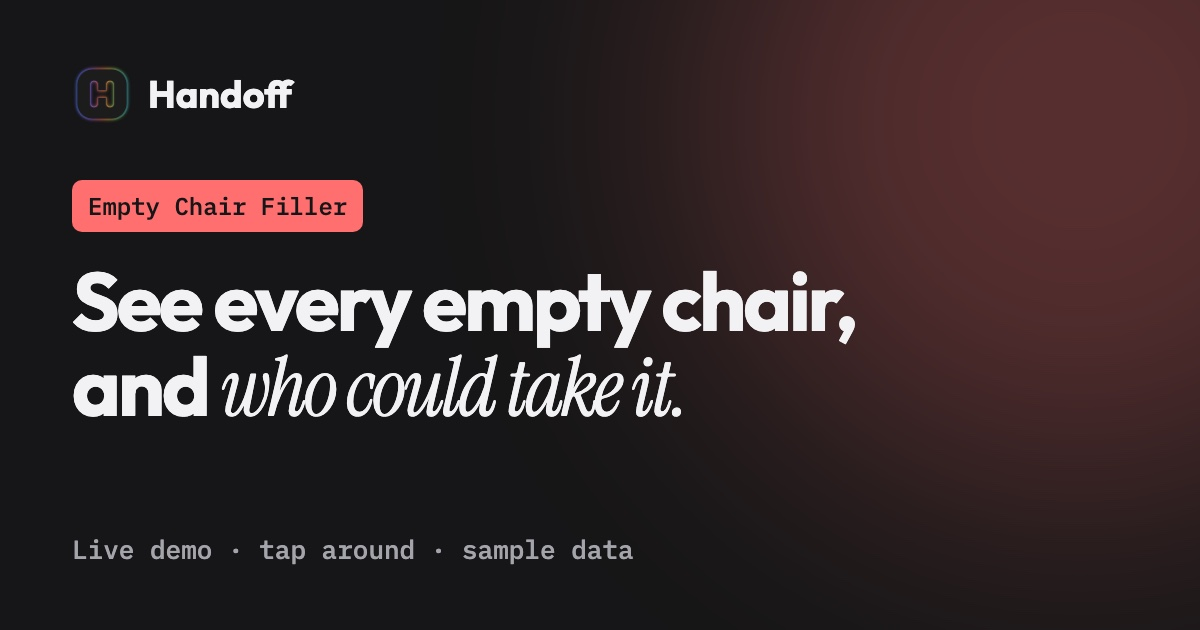
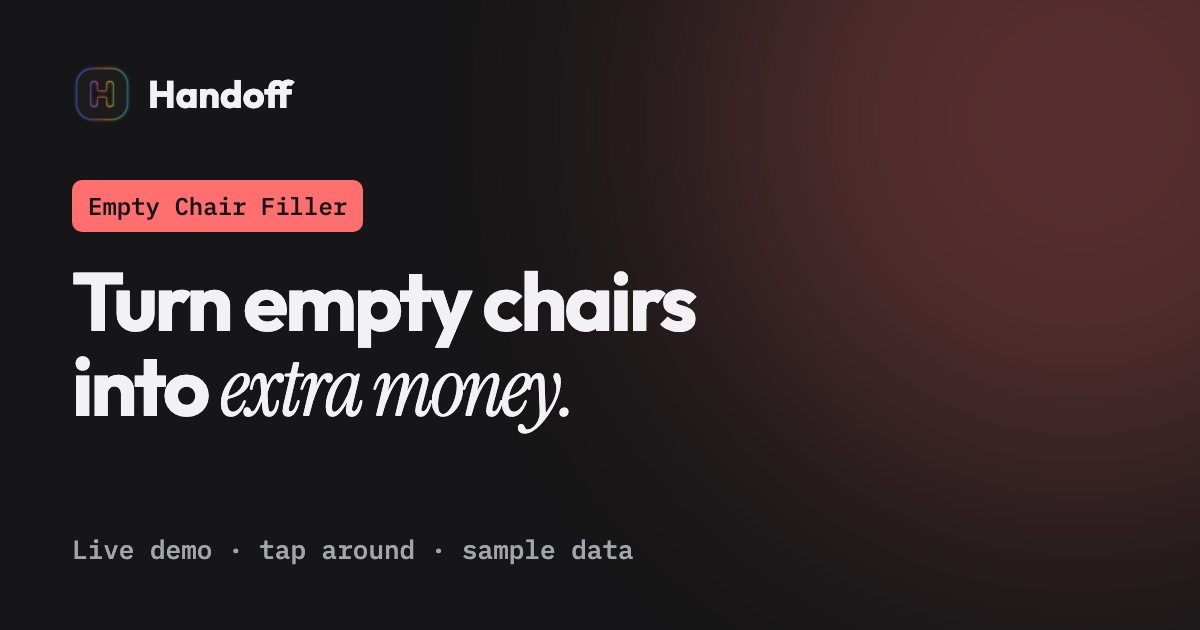
Demos page: say who each demo is for above its card, lead Empty Chair with the money

Changed region(s): [[0.0617, 0.4222, 0.7092, 0.6937]]

diff --git a/demos/index.html b/demos/index.html
@@ -45,12 +45,13 @@ p { margin: 0; max-width: 60ch; }
 .muted { color: var(--muted); }
 header { padding-block: 56px 32px; display: grid; gap: 16px; }
 .grid { display: grid; grid-template-columns: repeat(2, minmax(0, 1fr)); gap: 18px; padding-bottom: 48px; }
-.demo { background: var(--card); border: 1px solid var(--line); border-radius: 22px; overflow: hidden; display: flex; flex-direction: column; text-decoration: none; color: inherit; min-width: 0; transition: transform .2s, border-color .2s; }
+.demo { background: var(--card); border: 1px solid var(--line); border-radius: 22px; overflow: hidden; display: flex; flex-direction: column; flex: 1; text-decoration: none; color: inherit; min-width: 0; transition: transform .2s, border-color .2s; }
 .demo:hover { transform: translateY(-3px); border-color: var(--blue); }
 .demo:focus-visible { outline: 2px solid var(--fg); outline-offset: 3px; }
 .demo img { display: block; width: 100%; aspect-ratio: 1200 / 630; object-fit: cover; }
 .demo div { padding: 22px 24px 24px; display: flex; flex-direction: column; gap: 8px; flex: 1; }
-.demo .for { font: 500 11px/1.3 var(--mono); letter-spacing: .1em; text-transform: uppercase; color: var(--amber); }
+.item { display: flex; flex-direction: column; gap: 12px; min-width: 0; }
+.for { margin: 0; font: 700 clamp(22px, 2.6vw, 28px)/1.15 var(--display); letter-spacing: -.02em; color: var(--amber); }
 .demo p { font-size: 15.5px; color: var(--muted); }
 .demo .go { margin-top: auto; padding-top: 10px; font-weight: 600; font-size: 15px; color: var(--blue); }
 .end { border-top: 1px solid var(--line); padding-block: 40px 64px; display: flex; gap: 20px; align-items: center; justify-content: space-between; flex-wrap: wrap; }
@@ -71,10 +72,10 @@ header { padding-block: 56px 32px; display: grid; gap: 16px; }
     <p class="muted">Each one walks you through in 6 quick steps and works on your phone. They run on sample data, and we build yours around your business.</p>
   </header>
   <div class="grid">
-    <a class="demo" href="/week/"><img src="/week/og.jpg" alt="" loading="lazy"><div><span class="for">Any business</span><h2>Week of Content</h2><p>Hit one button and a whole week of posts fills in, in your voice or the style of a page you like.</p><span class="go">Try this demo &rarr;</span></div></a>
-    <a class="demo" href="/spy/"><img src="/spy/og.jpg" alt="" loading="lazy"><div><span class="for">Coffee shops and local businesses</span><h2>Competitor Watch</h2><p>See what every competitor near you did this week, and get 3 moves to make every Monday.</p><span class="go">Try this demo &rarr;</span></div></a>
-    <a class="demo" href="/chair/"><img src="/chair/og.jpg" alt="" loading="lazy"><div><span class="for">Salons and barbers</span><h2>Empty Chair Filler</h2><p>See every empty chair tomorrow, who could take it, and let it text them automatically.</p><span class="go">Try this demo &rarr;</span></div></a>
-    <a class="demo" href="/paid/"><img src="/paid/og.jpg" alt="" loading="lazy"><div><span class="for">Contractors and trades</span><h2>Invoice Chaser</h2><p>See who owes you, who to chase first, and the reminder already written.</p><span class="go">Try this demo &rarr;</span></div></a>
+    <div class="item"><p class="for">Any business</p><a class="demo" href="/week/"><img src="/week/og.jpg" alt="" loading="lazy"><div><h2>Week of Content</h2><p>Hit one button and a whole week of posts fills in, in your voice or the style of a page you like.</p><span class="go">Try this demo &rarr;</span></div></a></div>
+    <div class="item"><p class="for">Coffee shops and local businesses</p><a class="demo" href="/spy/"><img src="/spy/og.jpg" alt="" loading="lazy"><div><h2>Competitor Watch</h2><p>See what every competitor near you did this week, and get 3 moves to make every Monday.</p><span class="go">Try this demo &rarr;</span></div></a></div>
+    <div class="item"><p class="for">Salons and barbers</p><a class="demo" href="/chair/"><img src="/chair/og.jpg" alt="" loading="lazy"><div><h2>Empty Chair Filler</h2><p>Turn tomorrow's empty chairs into extra money. It finds who could take each one and texts them automatically.</p><span class="go">Try this demo &rarr;</span></div></a></div>
+    <div class="item"><p class="for">Contractors and trades</p><a class="demo" href="/paid/"><img src="/paid/og.jpg" alt="" loading="lazy"><div><h2>Invoice Chaser</h2><p>See who owes you, who to chase first, and the reminder already written.</p><span class="go">Try this demo &rarr;</span></div></a></div>
   </div>
   <div class="end">
     <div><h2>Don't see your business?</h2><p class="muted">Tell us what eats your week. We'll build it before you buy.</p></div>

diff --git a/chair/index.html b/chair/index.html
@@ -4,7 +4,7 @@
 <meta name="viewport" content="width=device-width,initial-scale=1,viewport-fit=cover">
 <title>Empty Chair Filler</title>
 <meta property="og:title" content="Empty Chair Filler demo · Handoff">
-<meta property="og:description" content="See every open chair tomorrow, who to ask, and the text already written. Demo built on sample data.">
+<meta property="og:description" content="Turn tomorrow's empty chairs into extra money. Demo built on sample data.">
 <meta property="og:url" content="https://gethandoff.net/chair/">
 <meta property="og:image" content="https://gethandoff.net/chair/og.jpg">
 <meta property="og:image:width" content="1200">
